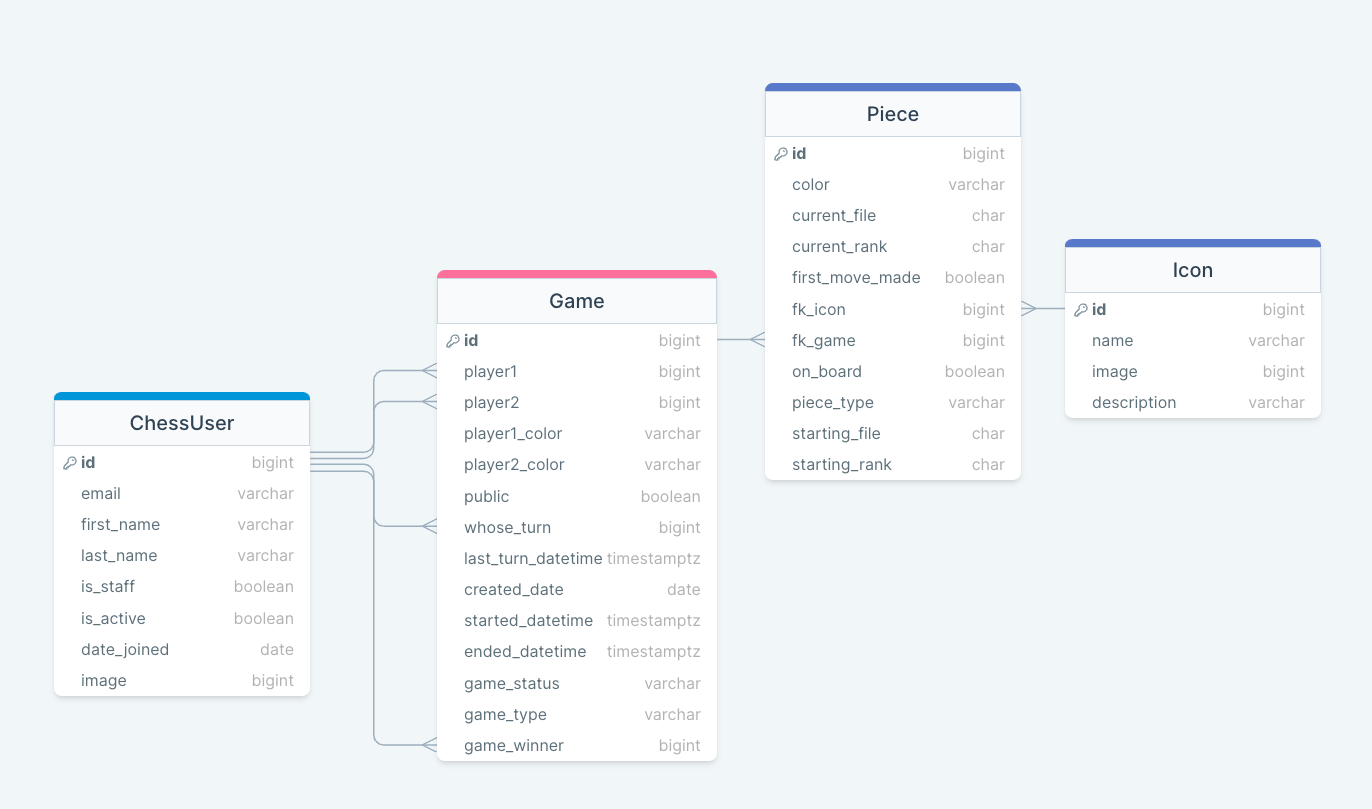
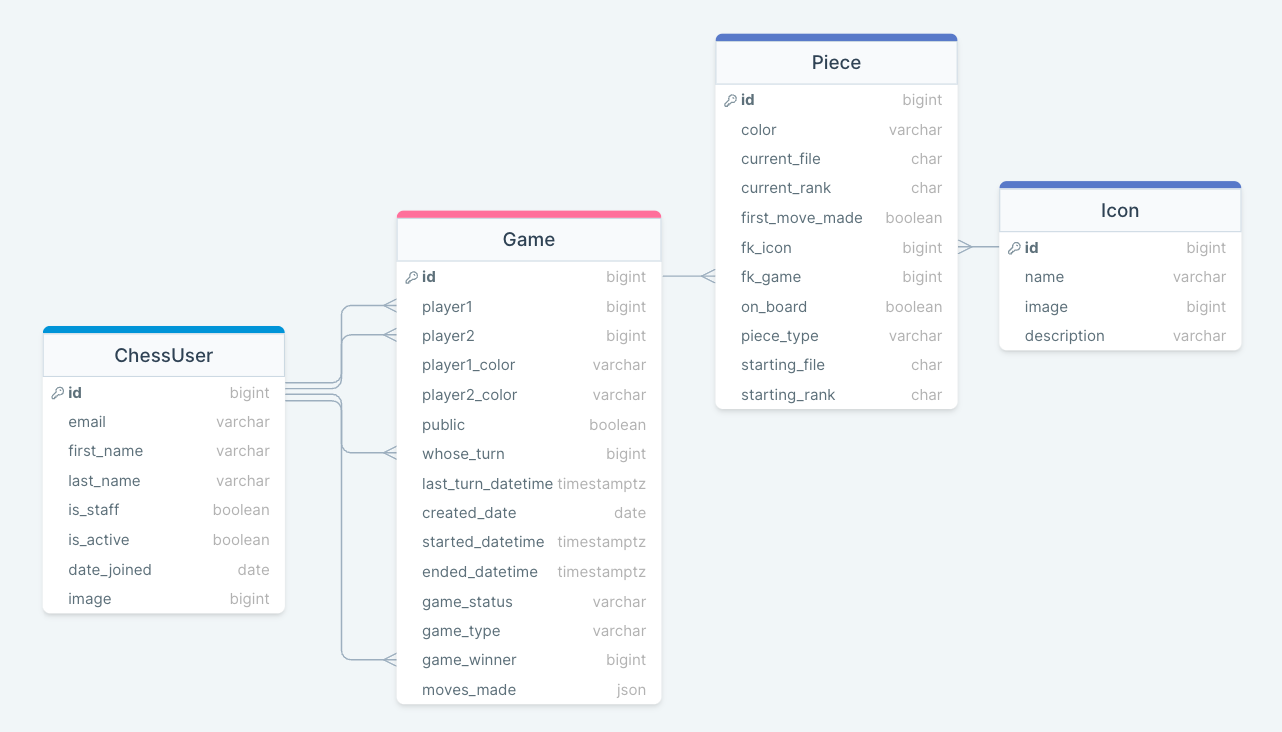
Updated Game model with moves_made JSONField.  Added empty JSON dict in POST to GameView.  Updated schema and README.  Included updated migration.

diff --git a/backend/games_app/views.py b/backend/games_app/views.py
@@ -59,12 +59,27 @@ class GamesView(APIView):
             # Serialize each piece, 
             # add each piece to pieces dict (keyed by square i.e. 'a1')
             pieces = create_pieces_for_new_game(new_game)
-
             serialized_pieces = [PieceSerializer(piece).data for piece in pieces]
             serialized_pieces_dict = {}
             for serialized_piece in serialized_pieces:
                 key = serialized_piece['current_file'] + serialized_piece['current_rank']
                 serialized_pieces_dict[key] = serialized_piece
+
+            # Attach a moves_made dict with an empty list
+            moves_made = {
+                'moves' : [
+                    # {
+                    #  'player_id' : int,
+                    #  'origin_rank' : int,
+                    #  'origin_file' : char,
+                    #  'destination_rank' : int,
+                    #  'destination_file' : int,
+                    #  'moving_piece_id' : int,
+                    #  'captured_piece_id' : int (or null) 
+                    # }, ...
+                ]
+            }
+            new_game.moves_made = moves_made
 
             new_game.save()
 

diff --git a/backend/games_app/models.py b/backend/games_app/models.py
@@ -57,6 +57,25 @@ class Game(models.Model):
         default=None
         )
 
+    # Notional move structure:
+    # { 'moves' :
+    #   [
+    #     {
+    #      'player_id' : int,
+    #      'origin_rank' : int,
+    #      'origin_file' : char,
+    #      'destination_rank' : int,
+    #      'destination_file' : int,
+    #      'moving_piece_id' : int,
+    #      'captured_piece_id' : int (or null) 
+    #     }, ...
+    #   ]
+    # }
+    moves_made = models.JSONField(
+        blank = True,
+        null = True
+    )
+
     created_date = models.DateField(default=datetime.date.today)
 
     started_datetime = models.DateTimeField(

diff --git a/backend/games_app/migrations/0007_game_moves_made.py b/backend/games_app/migrations/0007_game_moves_made.py
@@ -1,0 +1,18 @@
+# Generated by Django 5.0.2 on 2024-04-19 11:50
+
+from django.db import migrations, models
+
+
+class Migration(migrations.Migration):
+
+    dependencies = [
+        ('games_app', '0006_alter_game_game_winner_alter_game_whose_turn'),
+    ]
+
+    operations = [
+        migrations.AddField(
+            model_name='game',
+            name='moves_made',
+            field=models.JSONField(blank=True, null=True),
+        ),
+    ]

diff --git a/README.md b/README.md
@@ -66,8 +66,21 @@ by logging into your database as an admin.
 * Navigate to CheapChess/frontend/cheapchess
 * ```npm start```
 
-
 ### Troubleshooting
 * Registration / login not working
 - A user may not have logged out properly.  You may need delete the CSRF tokens from Application/cookies in developer tools.
+
+### Project Update Flow
+0. Create a project and link the issues to your project (only once)
+
+1. Add issues to your repo
+2. Create a branch from a certain issue
+3. Copy/paste the fetch/checkout commands GitHub provides into your local command line git directory
+- git fetch origin
+- git checkout <branch_name>
+4. Update code and fixtures as required.  Migrate as required.
+5. add, commit, and push back to the GitHub branch
+6. Add a comment in the issue and upload an image showing tests complete or other evidence
+7. Initiate a pull request into main branch and merge
+8. On local machine, checkout main and do a git pull to catch back up (migrate as required)
 
